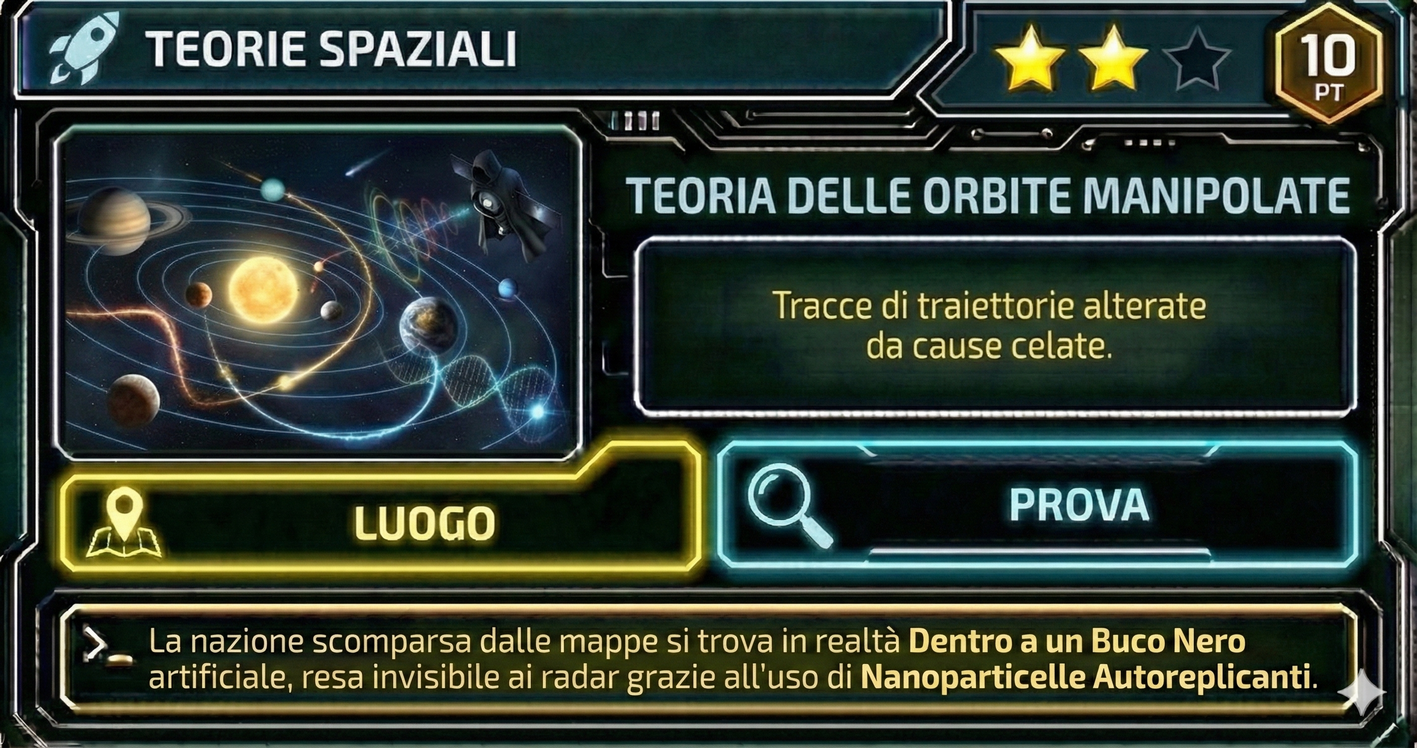
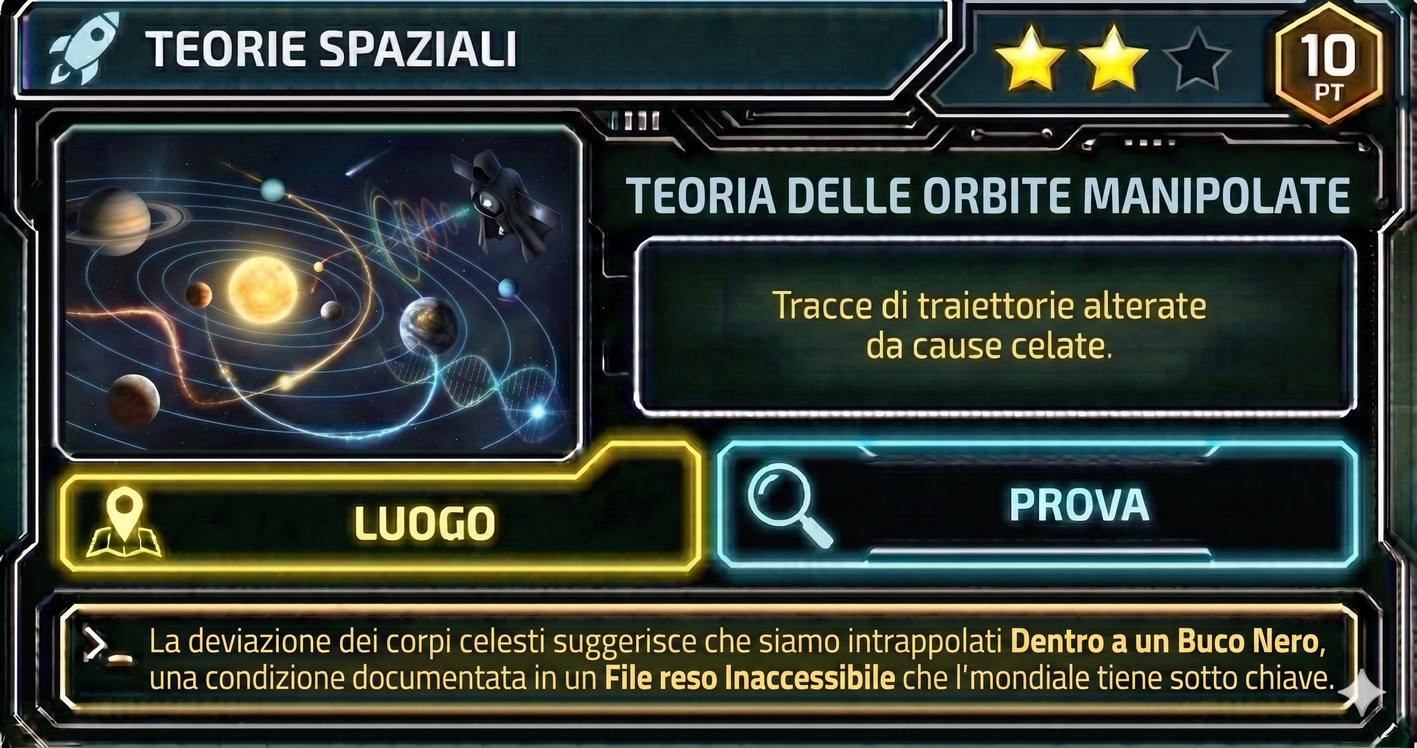
Corregge il Catalizzatore citato a testo su "Teoria delle Orbite Manipolate" (era di tipo sbagliato per lo slot, il bonus Coerenza Testuale era irraggiungibile)
Il testo narrativo citava Nanoparticelle Autoreplicanti (Mezzo) per lo slot Prova della teoria, rendendo impossibile completare la Coerenza Testuale su quello slot. Corretto con File Inaccessibile (Prova, tipo giusto), con testo e immagine della carta aggiornati di conseguenza.

diff --git a/src/data/theories.ts b/src/data/theories.ts
@@ -94,7 +94,7 @@ export const THEORIES: TheoryDef[] = [
   { id: 'spazio-secondo-sole', name: 'Teoria del Secondo Sole', topic: 'Teorie Spaziali', stars: 2, basePV: 10, slotA: 'Artefice', slotB: 'Luogo', image: '/cards/teoria/spazio-secondo-sole.png',
     flavor: "Una stella compagna del Sole rimarrebbe non rilevata. Gli **Osservatori** monitorano le emissioni termiche del secondo Sole dalla **Zona d'Ombra della Luna** per garantirne l'invisibilità alla popolazione.", testuale: ['art-osservatori', 'luo-zona-ombra-luna'] },
   { id: 'spazio-orbite-manipolate', name: 'Teoria delle Orbite Manipolate', topic: 'Teorie Spaziali', stars: 2, basePV: 10, slotA: 'Luogo', slotB: 'Prova', image: '/cards/teoria/spazio-orbite-manipolate.png',
-    flavor: "Tracce di traiettorie alterate da cause celate. La nazione scomparsa dalle mappe si trova in realtà **Dentro a un Buco Nero** artificiale, resa invisibile ai radar grazie all'uso di **Nanoparticelle Autoreplicanti**.", testuale: ['luo-dentro-buco-nero', 'mez-nanoparticelle-autoreplicanti'] },
+    flavor: "Tracce di traiettorie alterate da cause celate. La deviazione dei corpi celesti suggerisce che siamo intrappolati **Dentro a un Buco Nero**, una condizione documentata in un **File reso Inaccessibile** che l'mondiale tiene sotto chiave.", testuale: ['luo-dentro-buco-nero', 'pro-file-inaccessibile'] },
   { id: 'spazio-esplorazione-marziana', name: "Teoria dell'Esplorazione Marziana", topic: 'Teorie Spaziali', stars: 1, basePV: 5, slotA: 'Artefice', slotB: 'Luogo', image: '/cards/teoria/spazio-esplorazione-marziana.png',
     flavor: "Missioni su Marte mai dichiarate dalle agenzie spaziali. Il **Governo Ombra** organizza spedizioni clandestine verso il pianeta rosso partendo segretamente dalla **Base NEX-12**.", testuale: ['art-governo-ombra', 'luo-base-nex12'] },
   { id: 'spazio-pianeta-x', name: 'Teoria del Pianeta X', topic: 'Teorie Spaziali', stars: 2, basePV: 10, slotA: 'Luogo', slotB: 'Prova', image: '/cards/teoria/spazio-pianeta-x.png',
